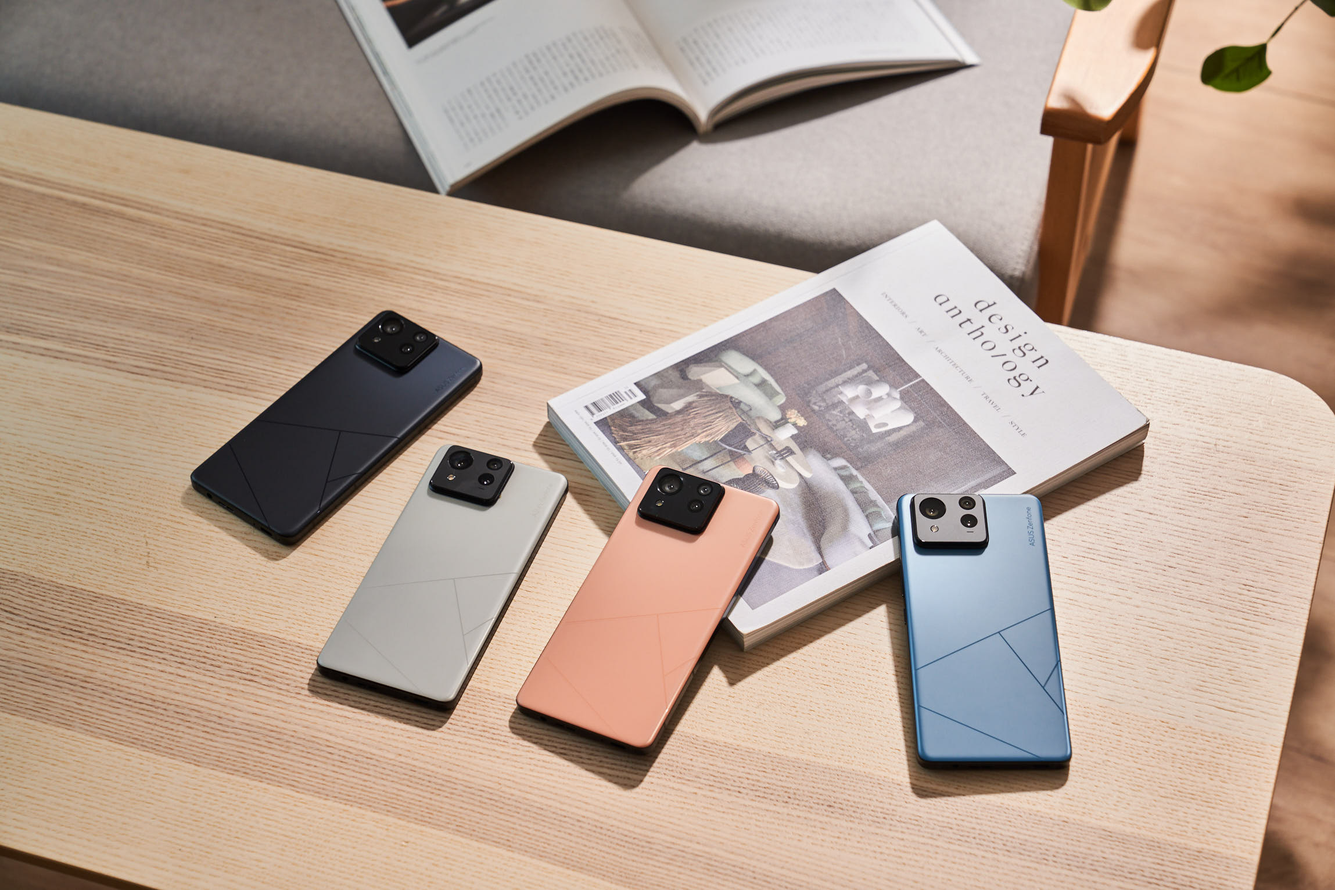
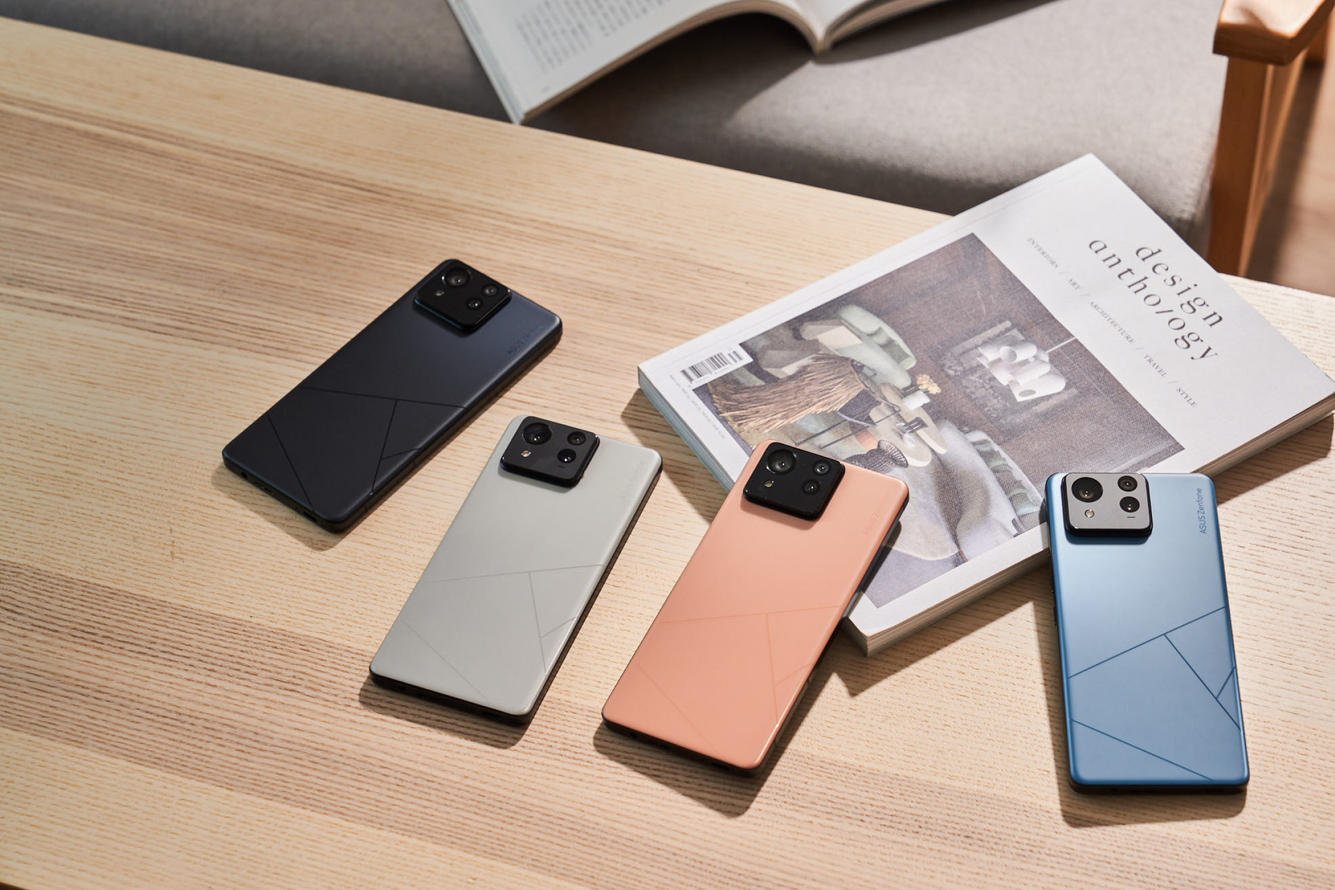
update image position

diff --git a/scss/main.scss b/scss/main.scss
@@ -50,7 +50,7 @@ p {
         height: 60vh;
         min-height: 640px;
         background-image: url(../images/2024040106633.jpg);
-        background-position: center;
+        background-position: 0 75%;
         background-size: cover;
         position: relative;
         padding: 1rem;
@@ -97,10 +97,10 @@ p {
             background-position: center;
             background-size: contain;
             background-repeat: no-repeat;
-            width: 360px;
-            height: 360px;
-            left: 10%;
-            bottom: 10%;
+            width: 340px;
+            height: 340px;
+            left: 5%;
+            bottom: 5%;
             @include media-breakpoint-down(md) { 
                 transform: scale(0.65);
                 transform-origin: center left;
@@ -150,7 +150,7 @@ p {
         height: 0px;
         padding-top: 56%;
         background-image: url(../images/2024040106620.jpg);
-        background-position: center;
+        background-position: 0 90%;
         background-size: cover;
         background-repeat: no-repeat;
         border-radius: 1rem;

diff --git a/css/main.css b/css/main.css
@@ -660,7 +660,7 @@ p {
   height: 60vh;
   min-height: 640px;
   background-image: url(../images/2024040106633.jpg);
-  background-position: center;
+  background-position: 0 75%;
   background-size: cover;
   position: relative;
   padding: 1rem;
@@ -710,10 +710,10 @@ p {
   background-position: center;
   background-size: contain;
   background-repeat: no-repeat;
-  width: 360px;
-  height: 360px;
-  left: 10%;
-  bottom: 10%;
+  width: 340px;
+  height: 340px;
+  left: 5%;
+  bottom: 5%;
 }
 @media (max-width: 767.98px) {
   .ta-main-kv-1 .kv-slogan {
@@ -767,7 +767,7 @@ p {
   height: 0px;
   padding-top: 56%;
   background-image: url(../images/2024040106620.jpg);
-  background-position: center;
+  background-position: 0 90%;
   background-size: cover;
   background-repeat: no-repeat;
   border-radius: 1rem;

diff --git a/project/apr2024.html b/project/apr2024.html
@@ -136,8 +136,7 @@
             <div class="py-3 py-md-5">
               <div class="swiper mySwiper">
                 <div class="swiper-wrapper">
-                  <div class="swiper-slide"> <img src="/images/pd-feature1-1.png"></div>
-                  <div class="swiper-slide"> <img src="/images/pd-feature1-2.png"></div>
+                  <div class="swiper-slide"> <img src="/images/2024040106691.jpg"></div>
                 </div>
                 <div class="swiper-pagination"></div>
               </div>
